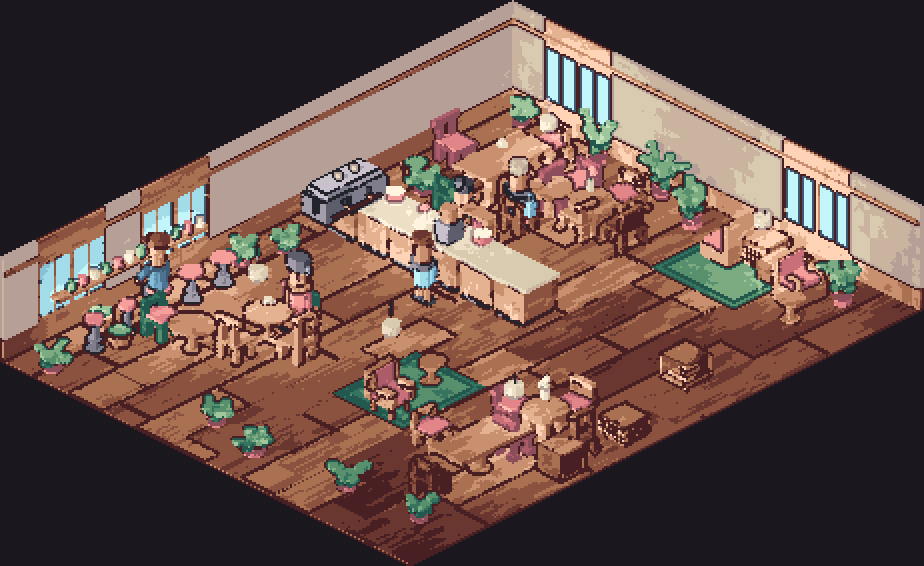
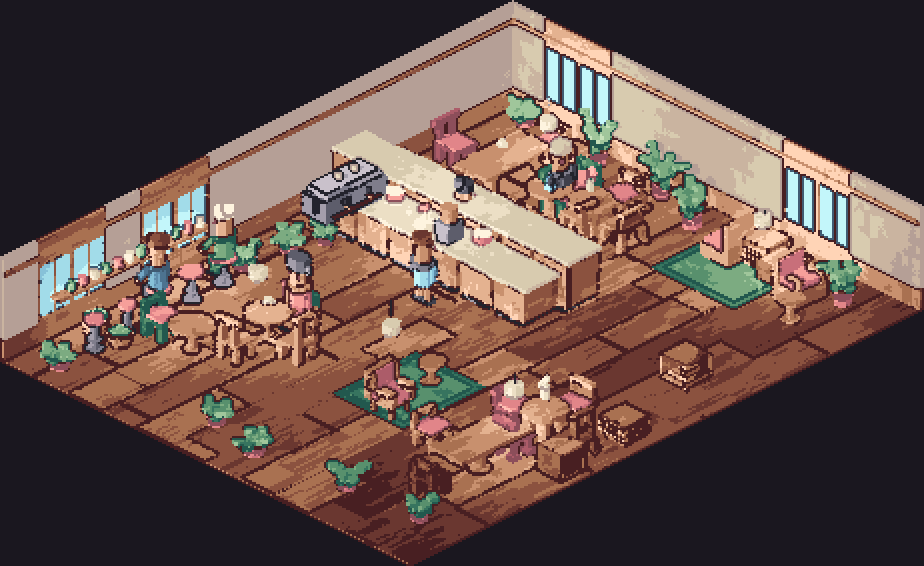
Eighth pass, and the proof rooms that gained a back bar
The three wall-less rooms are the only renders whose pixels moved, which is
the scope the change was supposed to have.

Claude-Session: https://claude.ai/code/session_01Q5KEMm7eqHrVgYtYGEkSmS

diff --git a/tools/build_plan.py b/tools/build_plan.py
@@ -908,11 +908,21 @@ def _focal_scan(n: int, target: int) -> int:
 
     Exists because the suite check samples ONE ROOM PER TOPOLOGY -- four
     renders, about a minute -- and that sample was measured to be optimistic.
-    Over twelve consecutive plans two fail, and neither of the two is one the
-    suite check looks at. A 17% escape rate is worth knowing about and worth
-    stating; hiding it behind a green check would be worse than the escape.
+    Over twelve consecutive plans two failed, and neither of the two was one
+    the suite check looked at. A 17% escape rate is worth knowing about and
+    worth stating; hiding it behind a green check would be worse.
 
-    Not folded into the suite because twelve rooms is three minutes, and a
+    It reads 0 of 12 now, and the two it caught had nothing in common. One was
+    an INSTRUMENT error -- the focal region was the bounding box of a
+    projected parallelogram, half of it floor and wall -- and no room changed
+    to fix it. The other was a real defect, an island whose back bar zone was
+    empty, and one room changed. Saying "the escape rate is closed" would hide
+    which was which.
+
+    Graded at FOCAL_TARGET, like the suite check. It used to default to 480
+    while the check ran at 320, so the two gates disagreed by construction.
+
+    Not folded into the suite because twelve rooms is several minutes, and a
     check nobody runs protects nothing.
     """
     import io as _io

diff --git a/ART_CRITIQUE.md b/ART_CRITIQUE.md
@@ -2278,3 +2278,233 @@ stools for the symmetric rule to trip on. The two fixes overlap and either
 alone suffices. What was verified against shipped code is that the failure path
 executes: at a floor of 0.45 it reports *7 of 18 stools occupied across 8 rooms
 (39%)*. A check whose failure path has never run is not a check.
+
+# Eighth pass — the instrument was averaging in the thing it was excluding
+
+## The focal region was a box drawn around a diamond
+
+`focal_report` takes a world-space box, projects its eight corners, and grades
+the pixels inside. Inside *what*, though: the eight corners of an axis-aligned
+box project to a **hexagon** in a 2:1 dimetric, and the code was taking their
+axis-aligned bounding box in pixel space.
+
+How much that matters, measured rather than assumed — hull area over bounding
+box area, per room:
+
+| | fill |
+|---|---|
+| twelve generated rooms | **51% – 64%** |
+| the reference room | 52% |
+
+So between a third and a half of every focal reading was the floor in front of
+the counter and the wall behind it: the exact *elsewhere* the focal zone is
+supposed to be brighter and busier than. Clipping the region to the projected
+convex hull, at 480, without touching a single room:
+
+| plan | topology | bbox L | hull L | bbox C | hull C |
+|---|---|---|---|---|---|
+| 1 | wall run | +0.025 | +0.030 | **−0.014** | **+0.101** |
+| 2 | peninsula | +0.037 | +0.075 | +0.040 | +0.087 |
+| 3 | island | +0.066 | +0.064 | +0.087 | +0.062 |
+| 4 | wall run | +0.020 | +0.020 | +0.039 | +0.101 |
+| 5 | peninsula | +0.078 | +0.048 | +0.107 | +0.101 |
+| 6 | peninsula | +0.054 | +0.072 | +0.094 | +0.087 |
+| 7 | wall run | +0.107 | +0.116 | +0.062 | +0.101 |
+| 8 | L run | +0.057 | +0.065 | +0.099 | +0.101 |
+| 9 | L run | +0.029 | +0.031 | **+0.000** | +0.053 |
+| 10 | wall run | +0.026 | +0.026 | +0.039 | +0.101 |
+| 11 | wall run | +0.020 | +0.018 | **−0.054** | **+0.047** |
+| 12 | island | −0.015 | **−0.033** | +0.045 | +0.146 |
+
+Lowest contrast in twelve rooms: **−0.054 → +0.047**.
+
+**This is why six structural hypotheses came back clean.** The seventh pass
+measured occupancy, prop density, back-wall dressing, counter dressing, kit
+size and three lighting variants against the wall run that read +0.000, and
+recorded that the cause was unfound. Every one of those hypotheses was about
+the room. None of them was about the rectangle.
+
+And the reference room is the reason it survived so long. Its fill is 52% — no
+better than anyone's — yet clipping moves its reading by nothing at all:
+contrast **+0.133 either way**, brightness +0.024 → +0.019. The instrument was
+calibrated on the one room where it happened to be accurate.
+
+### The hull test, and reading the winding instead of assuming it
+
+First version hard-coded the sign of the edge cross product and reported *only
+0 px inside the projected hull* — the whole frame classified as outside. Pixel
+coordinates flip y, so a chain wound counter-clockwise in world space comes out
+clockwise here. The winding is now read off the hull's own signed area, which
+costs one shoelace sum per frame and cannot be got wrong by a coordinate
+convention.
+
+## The contrast check had been working for the wrong reason
+
+The floors are bracketed against a deliberately broken light rig — the old
+per-zone lamp scheme that lights every seating area and takes light out of only
+two corners. At 320, under the hull clip:
+
+| plan | good L | broken L | good C | broken C |
+|---|---|---|---|---|
+| 1 wall run | +0.032 | +0.014 | +0.101 | +0.047 |
+| 2 peninsula | +0.074 | +0.054 | +0.101 | +0.047 |
+| 3 island | +0.051 | +0.032 | +0.146 | +0.047 |
+| 4 wall run | +0.018 | −0.001 | +0.146 | +0.086 |
+| 9 L run | +0.028 | +0.011 | +0.053 | −0.001 |
+| 11 wall run | +0.018 | −0.004 | +0.079 | +0.039 |
+| 12 island | −0.031 | −0.045 | +0.138 | +0.079 |
+| reference | +0.019 | — | +0.133 | — |
+
+Brightness drops in **every** room when the rig breaks, by a consistent 0.017
+to 0.022. Contrast drops too, but from a good range of 0.053–0.146 to a broken
+range of −0.001–0.086, which overlaps: a single floor catches **1 of 7**.
+
+It used to catch most of them, and that is the finding rather than a
+regression. The broken rig's whole defect is that it lights the **periphery**.
+A focal box stuffed with a third to a half periphery pixels moved when the
+periphery moved. *The check was detecting the regression by measuring the very
+pixels it existed to exclude.*
+
+So the floor is **+0.030** — positive for the first time, bracketed between the
+broken rig at −0.001 and the weakest good room at +0.047 — and it is a floor,
+not the instrument. Brightness carries the detection.
+
+## Counter orientation, which the sixth pass had already rejected
+
+Sorting the twelve hull readings by which way the run faces:
+
+| run facing | brightness lead |
+|---|---|
+| 90° — long face points **+x** | +0.064, +0.065, +0.072, +0.075, +0.116 |
+| 0° — long face points **+y** | −0.033, +0.018, +0.020, +0.026, +0.030, +0.031, +0.048 |
+
+**No overlap.** Twelve rooms, four topologies, two clean groups.
+
+The cause is one line of the lighting model. `LIGHT_CAM` resolves at azimuth 45
+to a world key of **(0.874, −0.116, 0.471)**, and the counter's front is its
+single largest visible surface:
+
+| run | visible long face | N·L |
+|---|---|---|
+| facing 90 | +x | **+0.874** |
+| facing 0 | +y | **−0.116** |
+
+One counter is lit head-on and the other is raked at grazing incidence, and the
+floor plan flips a coin between them and compensates for neither.
+
+Not fixed, and deliberately. The **reference room's own counter is a facing-0
+run** and reads +0.019, sitting in the middle of the weak group — so facing 0
+is *weak, not broken*, and a rig that boosted it would be tuning the lighting
+until the metric agreed rather than fixing a room. It goes on the open list
+with a number attached, where "counter orientation: no effect" used to sit on
+the rejected list without one. It was rejected through the blurred instrument.
+
+## The island had a back bar zone and nothing in it
+
+`on_wall` excludes islands and peninsulas from tall shelving, on the grounds
+that a 1.9 stack standing free is a partition between the barista and the room.
+That is right about shelving and was wrong to leave the zone empty: **a back
+bar is a counter before it is a shelf**, and a run with nothing behind it loses
+the vertical mass a wall run gets for free.
+
+| plan | before | after |
+|---|---|---|
+| 2 peninsula | +0.074 | +0.124 |
+| 3 island | +0.051 | +0.123 |
+| 5 peninsula | — | +0.080 |
+| 6 peninsula | — | +0.120 |
+| 12 island | **−0.031** | **+0.017** |
+
+### The height was chosen for the wrong reason and kept for the right one
+
+At the service counter's own 0.92 the back bar reads 52–55% hidden behind the
+run, and `screen_occlusion` calls that an error. Raising it looked like the
+fix. The projection says it cannot be: the run sits 1.1 nearer in depth, which
+lifts it 0.39 up the screen, so the back bar's top only clears the run's above
+**h = 1.37** — past chest height and into the partition an island exists not to
+be. Swept 1.10 to 1.32, the hidden share moved 49% to 44%. What the back bar
+actually shows is its **end**, because the same depth offset shifts it 0.78
+sideways.
+
+So the occlusion is exempted for what it is, and the height is chosen on the
+focal reading instead — where it turns out to matter for a different reason
+than the one it was proposed for, the exposed end being taller:
+
+| | worst island | best island |
+|---|---|---|
+| h = 0.92 | +0.017 | +0.123 |
+| h = 1.24 | **+0.037** | +0.136 |
+
+**The occlusion rule has now objected to a correct relationship twice** — first
+a customer standing in front of a plant, now a back bar standing behind the
+counter it serves. Both are cases where the overlap is a property of a fixed
+pair rather than of anyone's placement, which is exactly what the existing
+furniture-group exemption already says about the four chairs of a table set. So
+the run and its back bar are named into that group (`counter#bar_*`) rather
+than given a new special case. A rule that needs a third exemption of the same
+shape is a rule that is missing a concept, and the concept is "these two were
+placed as one thing".
+
+Adding `h` to `A.counter` changed every counter in the library, on a parameter
+whose default was supposed to change nothing: `0.92 - 0.10` is
+`0.8200000000000001` and the literal it replaced was `0.82`. Rounded, and the
+five counter variants hash identical to their committed selves again.
+
+## Where this leaves it
+
+`--focal-scan 12`, at 320 — the same resolution the suite check uses, which it
+was not before; the flag defaulted to 480 and the escape rate in its own
+docstring was measured against floors calibrated elsewhere:
+
+```
+  plan  1  wall run   L +0.032  C +0.101   ok
+  plan  2  peninsula  L +0.138  C +0.101   ok
+  plan  3  island     L +0.136  C +0.146   ok
+  plan  4  wall run   L +0.018  C +0.146   ok
+  plan  5  peninsula  L +0.093  C +0.101   ok
+  plan  6  peninsula  L +0.125  C +0.101   ok
+  plan  7  wall run   L +0.109  C +0.101   ok
+  plan  8  L run      L +0.059  C +0.101   ok
+  plan  9  L run      L +0.028  C +0.053   ok
+  plan 10  wall run   L +0.026  C +0.101   ok
+  plan 11  wall run   L +0.018  C +0.079   ok
+  plan 12  island     L +0.037  C +0.146   ok
+
+  0 of 12 rooms fail the focal floors (0%)
+```
+
+**2 of 12 to 0 of 12**, and the two failures had nothing in common. Plan 11 was
+an instrument error and no room changed. Plan 12 was a real defect and one room
+changed. Reporting them together as "the escape rate is closed" would hide
+that.
+
+Two rooms clear the brightness floor by 0.003 — plans 4 and 11, both facing-0
+wall runs, both in the group the orientation section leaves open. That is where
+the next failure will come from, and it is written down before it happens
+rather than after.
+
+## Still open
+
+- **Stages 1–3** (SDXL concept → TRELLIS 2 mesh → UniRig rig) need a GPU and
+  model weights. The seam (`ingest.py`) is built and checked; nothing feeds it.
+- **Counter orientation costs the focal lead 0.04 and nothing compensates.**
+  A run whose long face points +y is raked by the key at N·L = −0.116; one
+  pointing +x gets +0.874. Over twelve rooms the two groups do not overlap.
+  Left open rather than fixed because the reference room is itself a facing-0
+  run reading +0.019, so the orientation is weak and not broken, and a rig
+  boosted until the metric agreed would be a knob rather than a cause. The two
+  rooms nearest the floor (+0.018, against 0.015) are both in this group.
+- The **focal reading still falls with render resolution** in generated rooms
+  and holds in the reference one, because contrast is a percentile spread over
+  37 quantized lightness levels. The scan and the suite check now at least
+  grade at the same 320; the delivered render is 480 and the gap is stated
+  rather than tuned away.
+- **Furniture screen spread** now has an owner for its *closest pair* (0.045,
+  bracketed by measurement) but the mean-spread floor of 0.15 is still close to
+  the original guess. It has never rejected anything the closest-pair floor did
+  not also reject, which is either redundancy or a floor set too low to fire.
+- **The edge-density table in the seventh pass was read through the old focal
+  region** — the bounding box that is half floor and wall. Its conclusion, that
+  the failing wall run's focal zone is under-detailed in material variety, has
+  not been re-measured under the hull clip. It drove the counter-dressing work,
+  which helped; that does not make the number right.

diff --git a/README.md b/README.md
@@ -37,7 +37,8 @@ which is the point.
 
     # the gates
     python tools/manifest.py --check     # runs all twenty-four checks
-    python tools/build_plan.py --focal-scan 12   # slower gate: 12 whole rooms
+    python tools/build_plan.py --focal-scan 12   # slower gate: 12 whole rooms,
+                                                 # currently 0 of 12 failing
     python tools/character.py            # hair contrast, palette spread, silhouette floor
     python tools/fx.py                   # loop seams
 
